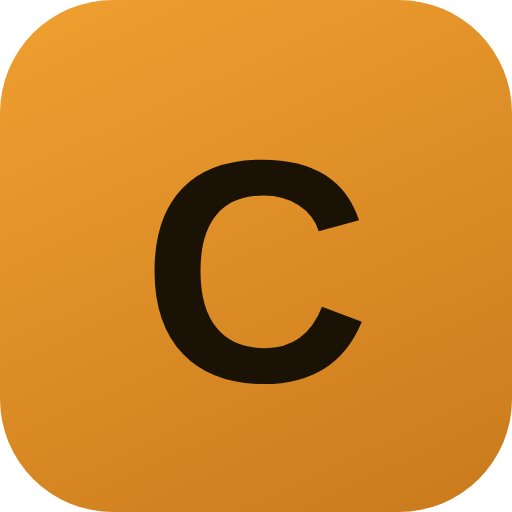
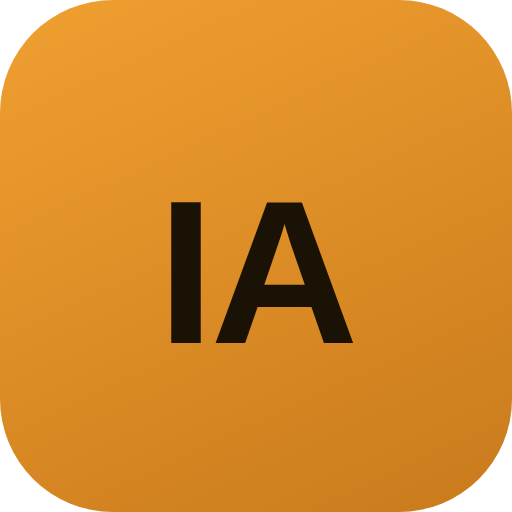
Rebrand: Certero → InventIA (#48)
Cambia el nombre de marca en toda la app: título, pantalla de login,
barra superior, manifest PWA y meta tags de iOS. La insignia pasa de
una "C" a "IA" (mismo degradado ámbar), y los íconos de la PWA
(192, 512, maskable y apple-touch-icon) se regeneraron con el nuevo
diseño. El Service Worker actualiza su caché a la nueva versión.

Claude-Session: https://claude.ai/code/session_01B9vx8DehDmoTtSt6XxSn7M

Changed region(s): [[0.2812, 0.3125, 0.7188, 0.75]]

diff --git a/index.html b/index.html
@@ -3,14 +3,14 @@
 <head>
 <meta charset="UTF-8">
 <meta name="viewport" content="width=device-width, initial-scale=1.0, maximum-scale=1.0">
-<title>Certero</title>
+<title>InventIA</title>
 <link rel="manifest" href="manifest.json">
 <meta name="theme-color" content="#1e242c">
 <link rel="icon" href="icons/icon-192.png">
 <link rel="apple-touch-icon" href="icons/apple-touch-icon.png">
 <meta name="apple-mobile-web-app-capable" content="yes">
 <meta name="apple-mobile-web-app-status-bar-style" content="black">
-<meta name="apple-mobile-web-app-title" content="Certero">
+<meta name="apple-mobile-web-app-title" content="InventIA">
 <link rel="preconnect" href="https://fonts.googleapis.com">
 <link href="https://fonts.googleapis.com/css2?family=Barlow+Condensed:wght@500;600;700;800&family=Inter:wght@400;500;600;700&family=IBM+Plex+Mono:wght@500;600&display=swap" rel="stylesheet">
 <script defer src="https://cdn.jsdelivr.net/npm/xlsx@0.18.5/dist/xlsx.full.min.js"></script>
@@ -78,7 +78,7 @@ input,select,textarea{font-family:inherit;}
 .topbar{position:sticky;top:0;z-index:20;background:var(--surface);border-bottom:1px solid var(--line);padding:10px 16px 0;}
 .topbar-row{display:flex;align-items:center;justify-content:space-between;padding-bottom:10px;}
 .brand{display:flex;align-items:center;gap:10px;}
-.brand-badge{width:34px;height:34px;border-radius:8px;background:linear-gradient(155deg,var(--amber),#c97a1c);display:flex;align-items:center;justify-content:center;font-family:'Barlow Condensed';font-weight:800;font-size:16px;color:#1a1204;flex-shrink:0;}
+.brand-badge{width:34px;height:34px;border-radius:8px;background:linear-gradient(155deg,var(--amber),#c97a1c);display:flex;align-items:center;justify-content:center;font-family:'Barlow Condensed';font-weight:800;font-size:13px;letter-spacing:-0.03em;color:#1a1204;flex-shrink:0;}
 .brand-text h1{font-size:18px;margin:0;line-height:1.1;}
 .brand-text span{font-size:11px;color:var(--text-faint);text-transform:uppercase;letter-spacing:0.08em;}
 .user-chip{display:flex;align-items:center;gap:8px;font-size:12px;color:var(--text-dim);}
@@ -168,7 +168,7 @@ textarea{resize:vertical;min-height:60px;}
 .login-wrap{min-height:100vh;display:flex;align-items:center;justify-content:center;padding:24px;}
 .login-card{width:100%;max-width:380px;background:var(--surface);border:1px solid var(--line);border-radius:14px;padding:30px 26px;position:relative;overflow:hidden;}
 .login-card::before{content:"";position:absolute;top:0;left:0;right:0;height:5px;background:repeating-linear-gradient(-55deg,var(--amber) 0 6px,transparent 6px 12px);}
-.login-logo{width:52px;height:52px;border-radius:12px;background:linear-gradient(155deg,var(--amber),#c97a1c);display:flex;align-items:center;justify-content:center;font-family:'Barlow Condensed';font-weight:800;font-size:24px;color:#1a1204;margin:6px auto 14px;}
+.login-logo{width:52px;height:52px;border-radius:12px;background:linear-gradient(155deg,var(--amber),#c97a1c);display:flex;align-items:center;justify-content:center;font-family:'Barlow Condensed';font-weight:800;font-size:19px;letter-spacing:-0.03em;color:#1a1204;margin:6px auto 14px;}
 .login-title{text-align:center;font-size:22px;margin:0 0 4px;}
 .login-sub{text-align:center;font-size:12.5px;color:var(--text-faint);margin-bottom:22px;}
 .login-toggle{display:flex;font-size:12.5px;color:var(--text-dim);justify-content:center;margin-top:16px;gap:5px;}
@@ -1490,8 +1490,8 @@ function renderLogin(){
   <div class="login-wrap">
     <div class="login-card">
       <div class="ticks" style="position:absolute;top:5px;left:0;right:0;opacity:0">${'<span></span>'.repeat(40)}</div>
-      <div class="login-logo">C</div>
-      <h1 class="login-title">Certero</h1>
+      <div class="login-logo">IA</div>
+      <h1 class="login-title">InventIA</h1>
       <div class="login-sub">Toma física de inventario · Bodega y cadena de suministro minera</div>
       <form id="auth-form">
         <label for="f-email">Correo</label>
@@ -1514,7 +1514,7 @@ function renderRecuperarPassword(){
   return `
   <div class="login-wrap">
     <div class="login-card">
-      <div class="login-logo">C</div>
+      <div class="login-logo">IA</div>
       <h1 class="login-title">Recupera tu acceso</h1>
       <div class="login-sub">Te enviaremos un link para crear una contraseña nueva</div>
       <form id="recuperar-password-form">
@@ -1538,7 +1538,7 @@ function renderCrearPassword(){
   return `
   <div class="login-wrap">
     <div class="login-card">
-      <div class="login-logo">C</div>
+      <div class="login-logo">IA</div>
       <h1 class="login-title">Crea tu contraseña</h1>
       <div class="login-sub">${esc(state.session.user.email||'')}</div>
       <form id="crear-password-form">
@@ -2604,8 +2604,8 @@ function renderShell(){
     <div class="topbar">
       <div class="topbar-row">
         <div class="brand">
-          <div class="brand-badge">C</div>
-          <div class="brand-text"><h1>${viewTitle(state.view)}</h1><span>${esc(state.perfil && state.perfil.empresas ? state.perfil.empresas.nombre : 'Certero')}</span></div>
+          <div class="brand-badge">IA</div>
+          <div class="brand-text"><h1>${viewTitle(state.view)}</h1><span>${esc(state.perfil && state.perfil.empresas ? state.perfil.empresas.nombre : 'InventIA')}</span></div>
         </div>
         <div class="user-chip">
           <button id="btn-config" class="btn-icon-header" aria-label="Configuraciones">${ICONS.config}</button>

diff --git a/inventario.html b/inventario.html
@@ -3,14 +3,14 @@
 <head>
 <meta charset="UTF-8">
 <meta name="viewport" content="width=device-width, initial-scale=1.0, maximum-scale=1.0">
-<title>Certero</title>
+<title>InventIA</title>
 <link rel="manifest" href="manifest.json">
 <meta name="theme-color" content="#1e242c">
 <link rel="icon" href="icons/icon-192.png">
 <link rel="apple-touch-icon" href="icons/apple-touch-icon.png">
 <meta name="apple-mobile-web-app-capable" content="yes">
 <meta name="apple-mobile-web-app-status-bar-style" content="black">
-<meta name="apple-mobile-web-app-title" content="Certero">
+<meta name="apple-mobile-web-app-title" content="InventIA">
 <link rel="preconnect" href="https://fonts.googleapis.com">
 <link href="https://fonts.googleapis.com/css2?family=Barlow+Condensed:wght@500;600;700;800&family=Inter:wght@400;500;600;700&family=IBM+Plex+Mono:wght@500;600&display=swap" rel="stylesheet">
 <script defer src="https://cdn.jsdelivr.net/npm/xlsx@0.18.5/dist/xlsx.full.min.js"></script>
@@ -78,7 +78,7 @@ input,select,textarea{font-family:inherit;}
 .topbar{position:sticky;top:0;z-index:20;background:var(--surface);border-bottom:1px solid var(--line);padding:10px 16px 0;}
 .topbar-row{display:flex;align-items:center;justify-content:space-between;padding-bottom:10px;}
 .brand{display:flex;align-items:center;gap:10px;}
-.brand-badge{width:34px;height:34px;border-radius:8px;background:linear-gradient(155deg,var(--amber),#c97a1c);display:flex;align-items:center;justify-content:center;font-family:'Barlow Condensed';font-weight:800;font-size:16px;color:#1a1204;flex-shrink:0;}
+.brand-badge{width:34px;height:34px;border-radius:8px;background:linear-gradient(155deg,var(--amber),#c97a1c);display:flex;align-items:center;justify-content:center;font-family:'Barlow Condensed';font-weight:800;font-size:13px;letter-spacing:-0.03em;color:#1a1204;flex-shrink:0;}
 .brand-text h1{font-size:18px;margin:0;line-height:1.1;}
 .brand-text span{font-size:11px;color:var(--text-faint);text-transform:uppercase;letter-spacing:0.08em;}
 .user-chip{display:flex;align-items:center;gap:8px;font-size:12px;color:var(--text-dim);}
@@ -168,7 +168,7 @@ textarea{resize:vertical;min-height:60px;}
 .login-wrap{min-height:100vh;display:flex;align-items:center;justify-content:center;padding:24px;}
 .login-card{width:100%;max-width:380px;background:var(--surface);border:1px solid var(--line);border-radius:14px;padding:30px 26px;position:relative;overflow:hidden;}
 .login-card::before{content:"";position:absolute;top:0;left:0;right:0;height:5px;background:repeating-linear-gradient(-55deg,var(--amber) 0 6px,transparent 6px 12px);}
-.login-logo{width:52px;height:52px;border-radius:12px;background:linear-gradient(155deg,var(--amber),#c97a1c);display:flex;align-items:center;justify-content:center;font-family:'Barlow Condensed';font-weight:800;font-size:24px;color:#1a1204;margin:6px auto 14px;}
+.login-logo{width:52px;height:52px;border-radius:12px;background:linear-gradient(155deg,var(--amber),#c97a1c);display:flex;align-items:center;justify-content:center;font-family:'Barlow Condensed';font-weight:800;font-size:19px;letter-spacing:-0.03em;color:#1a1204;margin:6px auto 14px;}
 .login-title{text-align:center;font-size:22px;margin:0 0 4px;}
 .login-sub{text-align:center;font-size:12.5px;color:var(--text-faint);margin-bottom:22px;}
 .login-toggle{display:flex;font-size:12.5px;color:var(--text-dim);justify-content:center;margin-top:16px;gap:5px;}
@@ -1490,8 +1490,8 @@ function renderLogin(){
   <div class="login-wrap">
     <div class="login-card">
       <div class="ticks" style="position:absolute;top:5px;left:0;right:0;opacity:0">${'<span></span>'.repeat(40)}</div>
-      <div class="login-logo">C</div>
-      <h1 class="login-title">Certero</h1>
+      <div class="login-logo">IA</div>
+      <h1 class="login-title">InventIA</h1>
       <div class="login-sub">Toma física de inventario · Bodega y cadena de suministro minera</div>
       <form id="auth-form">
         <label for="f-email">Correo</label>
@@ -1514,7 +1514,7 @@ function renderRecuperarPassword(){
   return `
   <div class="login-wrap">
     <div class="login-card">
-      <div class="login-logo">C</div>
+      <div class="login-logo">IA</div>
       <h1 class="login-title">Recupera tu acceso</h1>
       <div class="login-sub">Te enviaremos un link para crear una contraseña nueva</div>
       <form id="recuperar-password-form">
@@ -1538,7 +1538,7 @@ function renderCrearPassword(){
   return `
   <div class="login-wrap">
     <div class="login-card">
-      <div class="login-logo">C</div>
+      <div class="login-logo">IA</div>
       <h1 class="login-title">Crea tu contraseña</h1>
       <div class="login-sub">${esc(state.session.user.email||'')}</div>
       <form id="crear-password-form">
@@ -2604,8 +2604,8 @@ function renderShell(){
     <div class="topbar">
       <div class="topbar-row">
         <div class="brand">
-          <div class="brand-badge">C</div>
-          <div class="brand-text"><h1>${viewTitle(state.view)}</h1><span>${esc(state.perfil && state.perfil.empresas ? state.perfil.empresas.nombre : 'Certero')}</span></div>
+          <div class="brand-badge">IA</div>
+          <div class="brand-text"><h1>${viewTitle(state.view)}</h1><span>${esc(state.perfil && state.perfil.empresas ? state.perfil.empresas.nombre : 'InventIA')}</span></div>
         </div>
         <div class="user-chip">
           <button id="btn-config" class="btn-icon-header" aria-label="Configuraciones">${ICONS.config}</button>

diff --git a/sw.js b/sw.js
@@ -1,8 +1,8 @@
-// Service Worker de Certero: cachea el app shell para que la app siga
+// Service Worker de InventIA: cachea el app shell para que la app siga
 // abriendo aunque no haya conexión (los datos en sí se piden a Supabase
 // aparte; sin conexión, la app los muestra vacíos/cacheados por el navegador
 // y encola los conteos nuevos hasta que vuelva la señal).
-const CACHE_NAME = 'certero-shell-v2';
+const CACHE_NAME = 'inventia-shell-v1';
 const APP_SHELL = [
   './', './index.html', './manifest.json',
   './icons/icon-192.png', './icons/icon-512.png', './icons/icon-maskable-512.png', './icons/apple-touch-icon.png',
